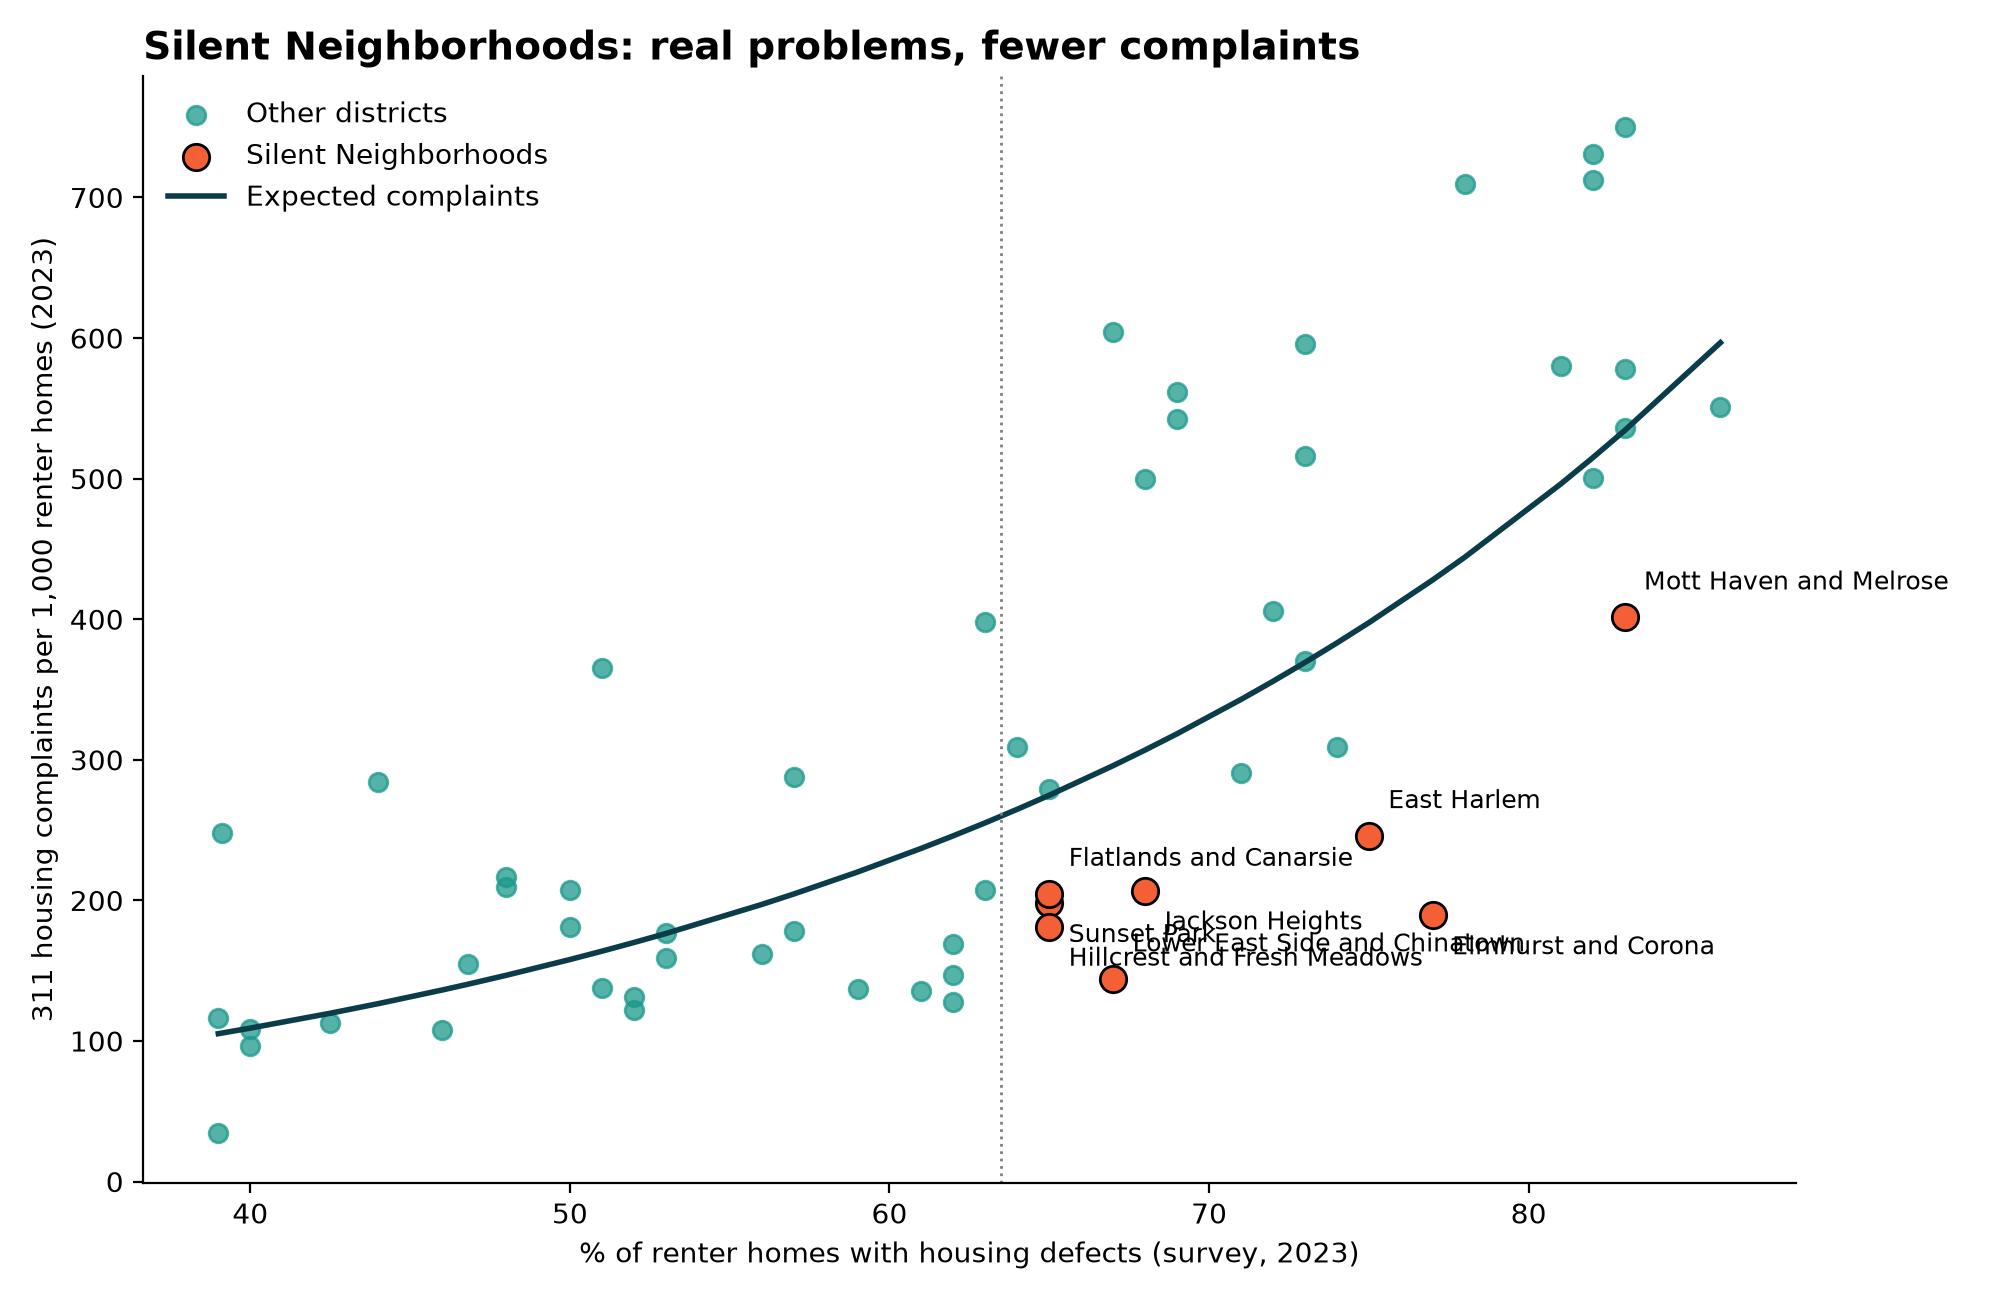
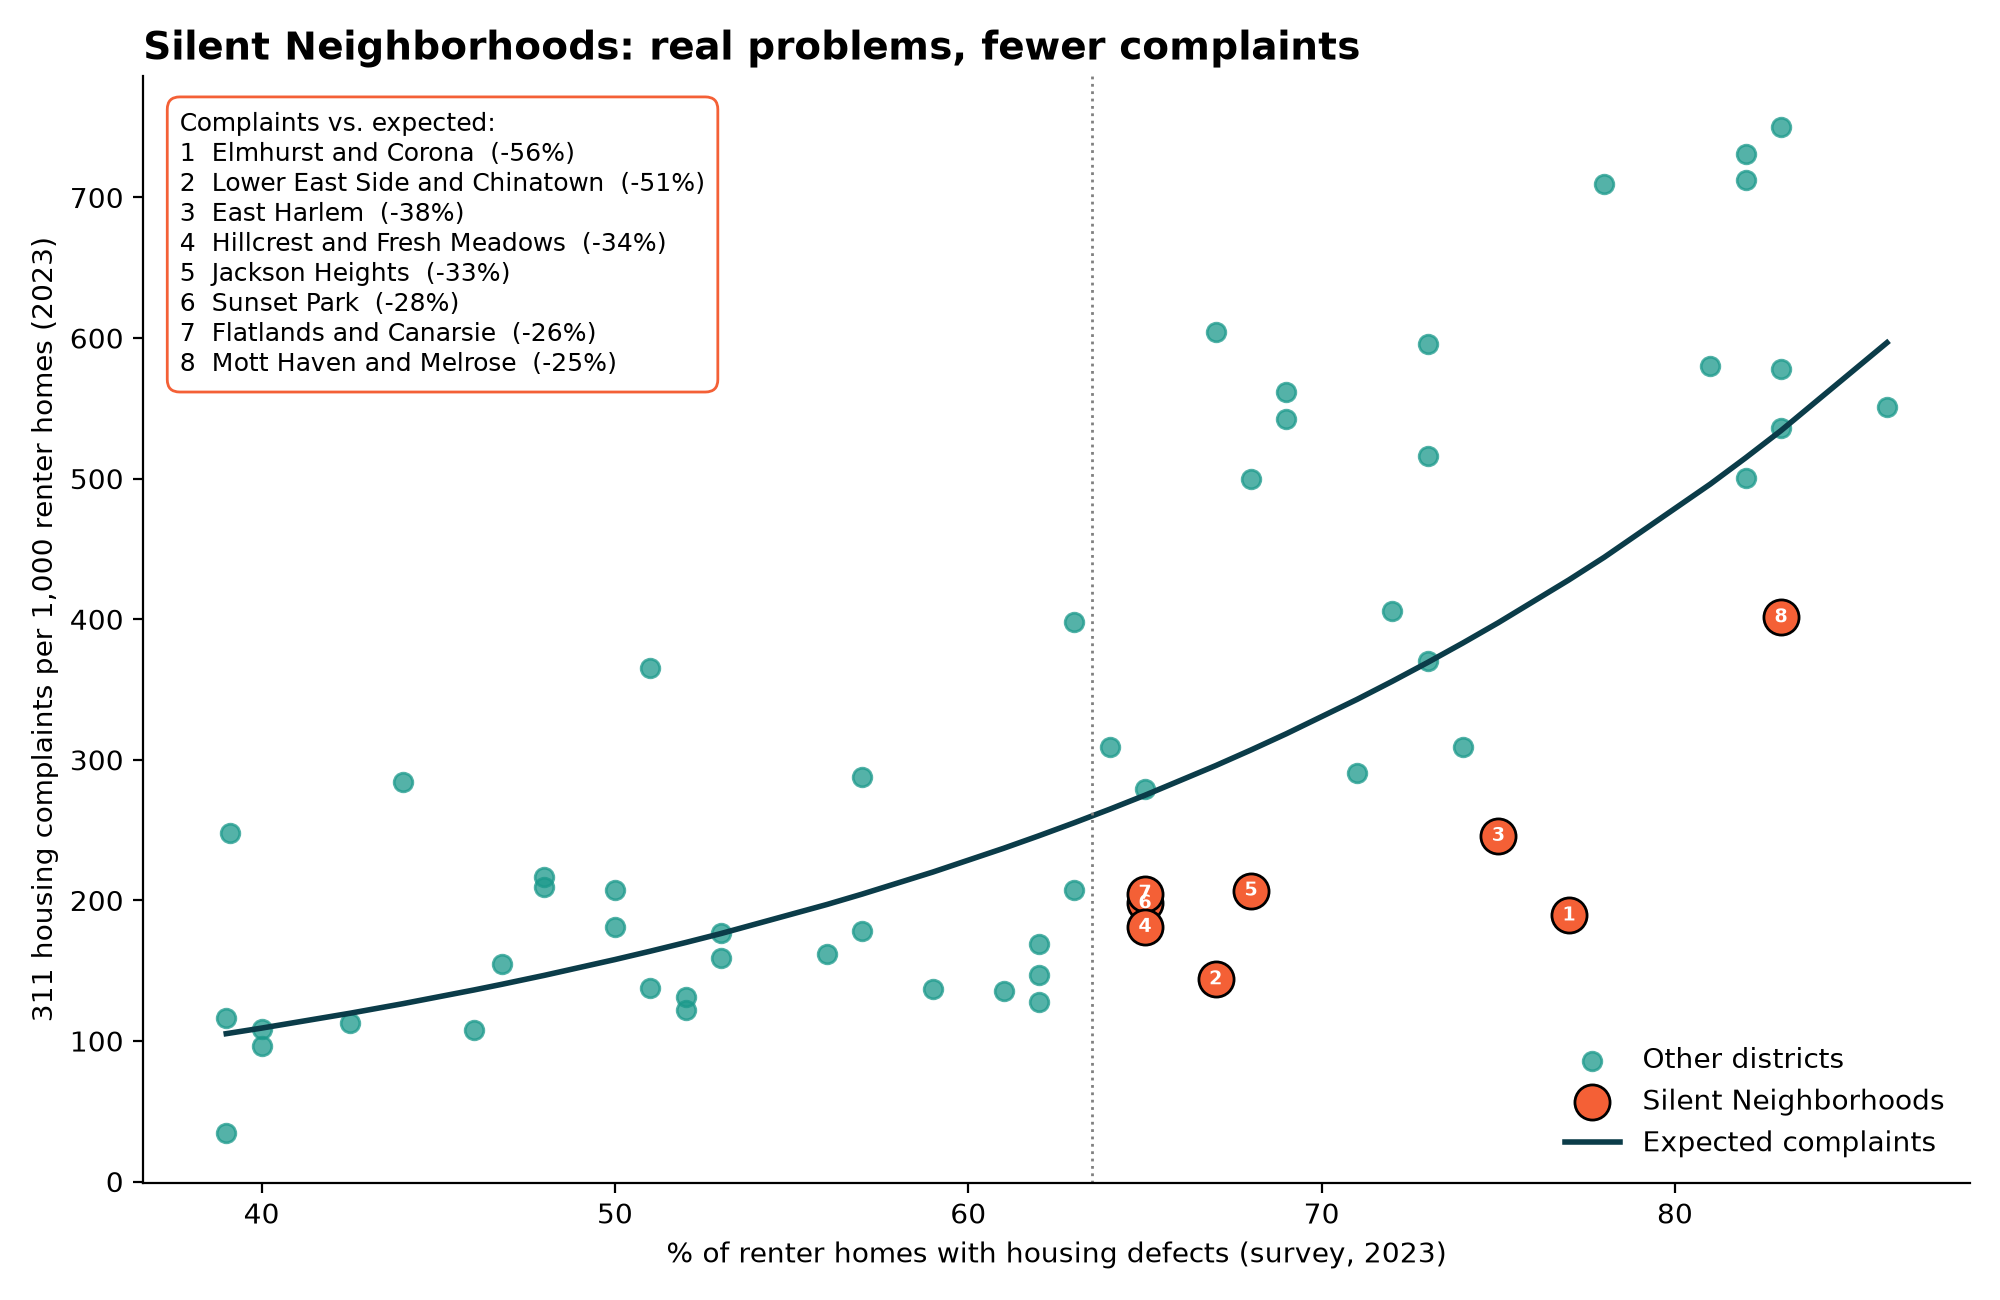
Clearer Silent Neighborhoods chart

diff --git a/src/reporting_bias.py b/src/reporting_bias.py
@@ -140,7 +140,7 @@ def plot(data: pd.DataFrame, stats: dict, path: Path) -> None:
     silent = data[data["silent"]]
     ax.scatter(normal[NEED_COL], normal[RATE_COL], s=45, color="#1B998B",
                alpha=0.75, label="Other districts")
-    ax.scatter(silent[NEED_COL], silent[RATE_COL], s=90, color="#F46036",
+    ax.scatter(silent[NEED_COL], silent[RATE_COL], s=160, color="#F46036",
                edgecolor="black", label="Silent Neighborhoods")
 
     line = data.sort_values(NEED_COL)
@@ -148,17 +148,25 @@ def plot(data: pd.DataFrame, stats: dict, path: Path) -> None:
             label="Expected complaints")
     ax.axvline(data.attrs["median_need"], color="grey", ls=":", lw=1)
 
-    # alternate labels below/above the dot so neighbors don't overlap
-    for i, (_, r) in enumerate(silent.sort_values(NEED_COL).iterrows()):
-        dy = -14 if i % 2 == 0 else 10
-        ax.annotate(r["district_name"], (r[NEED_COL], r[RATE_COL]),
-                    xytext=(7, dy), textcoords="offset points", fontsize=9)
+    # Many silent districts sit close together, so number the dots and list
+    # the names (with their silence gap) in a box instead of labelling each dot
+    ranked = silent.sort_values("reporting_ratio").reset_index(drop=True)
+    lines = []
+    for i, r in ranked.iterrows():
+        ax.annotate(str(i + 1), (r[NEED_COL], r[RATE_COL]), ha="center",
+                    va="center", fontsize=7, fontweight="bold", color="white")
+        lines.append(f"{i + 1}  {r['district_name']}  "
+                     f"(-{(1 - r['reporting_ratio']) * 100:.0f}%)")
+    if lines:
+        ax.text(0.02, 0.97, "Complaints vs. expected:\n" + "\n".join(lines),
+                transform=ax.transAxes, fontsize=9, va="top",
+                bbox=dict(boxstyle="round,pad=0.5", fc="white", ec="#F46036"))
 
     ax.set_xlabel("% of renter homes with housing defects (survey, 2023)")
     ax.set_ylabel("311 housing complaints per 1,000 renter homes (2023)")
     ax.set_title("Silent Neighborhoods: real problems, fewer complaints",
                  loc="left", fontsize=14, fontweight="bold")
-    ax.legend(frameon=False)
+    ax.legend(frameon=False, loc="lower right")
     ax.spines[["top", "right"]].set_visible(False)
     fig.tight_layout()
     fig.savefig(path, dpi=200)
